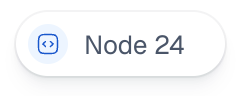
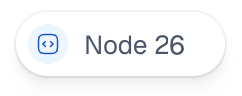
chore: run on node.js 26.13.0

Changed region(s): [[0.6942, 0.3438, 0.781, 0.5938]]

diff --git a/site/lib/llmsKnowledge.ts b/site/lib/llmsKnowledge.ts
@@ -238,7 +238,7 @@ export const KNOWLEDGE_CHUNKS: readonly KnowledgeChunk[] = [
       "Permissions: Pull requests read/write, Contents read, Metadata read. Contents write is needed only for triage pushes. Conversation comments and labels accept Issues or Pull requests grants at the endpoint's required level. Checks read/write, commit-status read/write, Actions logs, labels, and reactions degrade independently when unavailable.",
       "Commit statuses read on every install for legacy status events. Write only if FEATURE_COMMIT_STATUS=true.",
       "Install the app on the orgs or repos to review. Creating the App is not enough. If you pick only selected repositories, include the test repo. Then recreate web and worker so they pick up credentials.",
-      "Contributors use Node 24.22.0 LTS and npm >=11.19.1 <12. The supported Node range is ^24.21.0; CI and Docker stay pinned to 24.22.0. Vercel bootstraps npm 11.19.1 outside the workspace for install and build. One root package-lock.json and .npmrc cover the backend and site workspace. npm ci installs everything; npm ci --workspaces=false installs backend build dependencies; npm ci --omit=dev --workspaces=false installs backend production dependencies; npm ci --workspace=pr-agent-landing --include-workspace-root=false installs the site. The seven-day release-age policy has no exclusions. Dependency lifecycle scripts stay disabled. npm run dev uses native Node TypeScript and watches imported source; restart after environment or configuration changes. Production runs compiled JavaScript.",
+      "Contributors use Node 26.13.0 LTS and npm >=11.19.1 <12. The supported Node range is ^26.13.0; CI and Docker stay pinned to 26.13.0. Vercel bootstraps npm 11.19.1 outside the workspace for install and build. One root package-lock.json and .npmrc cover the backend and site workspace. npm ci installs everything; npm ci --workspaces=false installs backend build dependencies; npm ci --omit=dev --workspaces=false installs backend production dependencies; npm ci --workspace=pr-agent-landing --include-workspace-root=false installs the site. The seven-day release-age policy has no exclusions. Dependency lifecycle scripts stay disabled. npm run dev uses native Node TypeScript and watches imported source; restart after environment or configuration changes. Production runs compiled JavaScript.",
       "GitHub needs HTTPS except when the webhook target is a loopback address. Production Compose publishes HTTP 7224 only. Put TLS in front, or use the maintainer-local Compose file, which starts a Cloudflare quick tunnel to /webhooks.",
       "A VPS plus Dokploy or Coolify is a TLS front for pr-agent-web. Route only the web service on internal port 7224. Leave Postgres unpublished. Keep DATABASE_URL on hostname postgres. Do not add a panel-specific compose file or expose the worker. Hetzner is the usual cheap 4 GB VPS. Hostinger and DigitalOcean also work. See README Recommended hosts.",
       "Check web with curl http://127.0.0.1:7224/health (ok) and /ready (ready when Postgres is up).",

diff --git a/docs/operations.md b/docs/operations.md
@@ -100,7 +100,7 @@ and return `503`.
 ### Docker and Docker Compose
 
 - **Stack:** [docker-compose.yml](../docker-compose.yml) runs **`postgres`**, **`pr-agent-web`** (`ROLE=web`), and **`pr-agent-worker`** (`ROLE=worker`). `docker compose up` is required for end-to-end reviews and asks; web-only is not sufficient.
-- **Image:** multi-stage `Dockerfile` (Node 24 LTS, pinned to 24.22.0); runtime listens on **`PORT`** (pinned to **7224** in Compose and [`.env.example`](../.env.example)). The runtime stage installs Debian `git` from `node:24.22.0-bookworm-slim` (2.39.x). Pinned workspace search runs on fff in a child process the worker forks on first use, with `git grep -nF -I -z` for files fff does not index and as the fallback. Triage search uses `git grep` alone. Both apply `maxResults` plus `LOCAL_WORKSPACE_SEARCH_MAX_TOTAL_BYTES` to the result. `git grep` does not pass `--max-count` (Git 2.40+). The image ships the `@ff-labs/fff-bin-*` platform package for its architecture; a host that cannot load it logs `workspace_search_fff_fallback` and searches with `git grep` ([ADR 0048](adr/0048-fff-workspace-search.md)).
+- **Image:** multi-stage `Dockerfile` (Node 26.13.0 LTS); runtime listens on **`PORT`** (pinned to **7224** in Compose and [`.env.example`](../.env.example)). The runtime stage installs Debian `git` from `node:26.13.0-bookworm-slim` (2.39.x). That image supplies npm 11.20.0. Pinned workspace search runs on fff in a child process the worker forks on first use, with `git grep -nF -I -z` for files fff does not index and as the fallback. Triage search uses `git grep` alone. Both apply `maxResults` plus `LOCAL_WORKSPACE_SEARCH_MAX_TOTAL_BYTES` to the result. `git grep` does not pass `--max-count` (Git 2.40+). The image ships the `@ff-labs/fff-bin-*` platform package for its architecture; a host that cannot load it logs `workspace_search_fff_fallback` and searches with `git grep` ([ADR 0048](adr/0048-fff-workspace-search.md)).
 - **Health (web):** `GET /health` returns `200` and plain `ok`. `GET /ready` runs a Postgres `SELECT 1` and returns `503` when the database is unreachable. Shipped Compose healthchecks web with hardcoded `http://127.0.0.1:7224/health`, not `/ready`. `depends_on` is start-only. Postgres dying later does not fail the web service.
 - **Health (worker):** the worker listens on its own `PORT` for the same paths. That port is not published. `curl http://127.0.0.1:7224/ready` from the host hits web `/ready` (Postgres ping only). Worker `/ready` requires the eight registered consumers (`WORKER_CONSUMER_QUEUES`, including retention) plus Postgres/pg-boss. Compose checks that in-container. The image `HEALTHCHECK` hits `/health`, so a PaaS that honors only the Dockerfile can mark a worker healthy before consumers exist. Continuous queue/DLQ diagnostics emit every 60s; see [agent-work-ops.md](agent-work-ops.md).
 - **Webhook URL:** set GitHub to `https://<host>/webhooks`. The process binds HTTP on `7224`. Production Compose publishes that HTTP port only. Maintainer-local Caddy and a Cloudflare quick tunnel live in [docker-compose.dev.yml](../docker-compose.dev.yml). A public `http://<host>:7224/webhooks` URL is rejected except for loopback.
@@ -191,12 +191,12 @@ seven-day purge. Queries and maintenance checks:
 
 - **Primary start** is `docker compose -f docker-compose.dev.yml up -d --build`. That file starts Postgres, Caddy, web, worker, and a Cloudflare quick tunnel to the web process. `dev/mock.env` has no PEM. The boot script generates one at process start. Print the public webhook URL with `node dev/print-public-webhook-url.cjs` and paste it on the GitHub App. The trycloudflare hostname changes on restart. Probe the laptop side with `curl -k https://web.localhost/health` and `curl -k https://worker.localhost/ready`. If the names do not resolve, add them to `/etc/hosts` or pass `curl --resolve`. Do not mix that file with `docker compose up`.
 - **`npm run dev`** runs `node --watch --env-file-if-exists=.env src/index.ts`. Node strips erasable TypeScript without a loader. Imported-source changes restart the process. Restart manually after `.env`, configuration, or other unwatched input changes.
-- Keep `.env` present for watching, even if settings come from exported variables (`touch .env` creates an empty file). On Node 24.22.0, watching with an absent optional env file can crash during shutdown after a source restart. Non-watching source and compiled production runs are unaffected.
+- On Node 26.13.0, `node --watch --env-file-if-exists=.env` prints `.env not found. Continuing without it.` and exits 0 after a source restart and shutdown when `.env` is absent.
 - **`GITHUB_APP_PRIVATE_KEY` must be a valid PEM key**. For local-only boot: `openssl genrsa 2048 > key.pem` and set the escaped PEM in `.env`. The example blob in `.env.example` fails `crypto.createPrivateKey()`.
 - The Compose `cloudflared` service is the public webhook path. Do not start a host smee or `cloudflared` process unless that service cannot reach Cloudflare. Do not point any fallback at the worker.
-- Host, CI, and images use Node 24.22.0 LTS. Root `devEngines` accepts Node `^24.21.0` so Vercel's managed Node 24 runtime can install the site. npm `>=11.19.1 <12` remains required, including commands launched from `site/`. Older npm releases do not provide the required release-age settings. See [ADR 0055](adr/0055-npm-native-node-toolchain.md) for the older runtime's HMAC-stream limitation and security-release review.
+- Host, CI, and images use Node 26.13.0 LTS. Root `devEngines` accepts Node `^26.13.0`. npm `>=11.19.1 <12` remains required, including commands launched from `site/`. Older npm releases do not provide the required release-age settings. See [ADR 0055](adr/0055-npm-native-node-toolchain.md) for the older `^24.21.0` floor and the rule against re-digesting a finalized HMAC.
 - Run `npm ci` for a clean contributor installation against the root lockfile. It replaces the installed tree; no global package-manager installation is needed.
-- **Vercel** selects Node 24 from the manifest's `engines` and uses explicit commands in [`site/vercel.json`](../site/vercel.json). The hosted npm can fall below the required version. Installation first runs `npm install --global --prefix /tmp/pr-agent-npm --ignore-scripts --engine-strict --min-release-age=7 npm@11.19.1`. This isolates the toolchain without changing the hosted npm. From the configured `site` directory, installation then runs `cd .. && /tmp/pr-agent-npm/bin/npm ci --workspace=pr-agent-landing --include-workspace-root=false`; build runs `cd .. && /tmp/pr-agent-npm/bin/npm run --workspace=pr-agent-landing build`. Both phases retain `devEngines` checks. Check dashboard Node and command overrides separately. Root install policy applies. The site serves `/llms.txt`, `GET /llms?query=`, and `GET /llms/json?query=` from [`site/lib/llmsKnowledge.ts`](../site/lib/llmsKnowledge.ts).
+- **Vercel** uses explicit commands in [`site/vercel.json`](../site/vercel.json). The Functions page lists 22.x and 24.x, so the next site deployment can fail. The hosted npm can fall below the required version. Installation first runs `npm install --global --prefix /tmp/pr-agent-npm --ignore-scripts --engine-strict --min-release-age=7 npm@11.19.1`. This isolates the toolchain without changing the hosted npm. From the configured `site` directory, installation then runs `cd .. && /tmp/pr-agent-npm/bin/npm ci --workspace=pr-agent-landing --include-workspace-root=false`; build runs `cd .. && /tmp/pr-agent-npm/bin/npm run --workspace=pr-agent-landing build`. Both phases retain `devEngines` checks. Check dashboard Node and command overrides separately. Root install policy applies. The site serves `/llms.txt`, `GET /llms?query=`, and `GET /llms/json?query=` from [`site/lib/llmsKnowledge.ts`](../site/lib/llmsKnowledge.ts).
 - **Docker image** installs build dependencies with `npm ci --workspaces=false` and production dependencies separately with `npm ci --omit=dev --workspaces=false`. Lifecycle scripts stay disabled, including for native packages. Runtime keeps the official Debian slim base, Git, certificates, the non-root user, and direct `node dist/index.js`; no package manager or compiler runs in the production process. [`.dockerignore`](../.dockerignore) keeps only the site's manifest for the shared lockfile.
 
 ### TLS in front of Compose

diff --git a/docs/adr/0055-npm-native-node-toolchain.md b/docs/adr/0055-npm-native-node-toolchain.md
@@ -2,18 +2,15 @@
 
 ## Decision
 
-Pin contributor tooling, CI, and Docker to Node 24.22.0 LTS with npm
+Pin contributor tooling, CI, and Docker to Node 26.13.0 LTS with npm
 `>=11.19.1 <12`. The official
-`node:24.22.0-bookworm-slim` image supplies npm 11.19.1. Root `engines`
+`node:26.13.0-bookworm-slim` image supplies npm 11.20.0. Root `engines`
 and `devEngines` reject unsupported versions. The supported Node range is
-`^24.21.0`, not an unbounded minimum. This admits Vercel's managed Node 24.21.0
-runtime without changing the preferred version or npm requirement.
+`^26.13.0`, not an unbounded minimum. Node 26.13.0 includes 26.12.1.
 
-Node 24.21.0 lacks the 24.22.0 fix for calling `digest()` after finalizing an HMAC
-stream. Webhook verification and the inspected authentication dependencies use
-one-shot HMAC updates and digests. Do not re-digest finalized HMAC streams.
-Recheck the supported range when Node's announced October 21, 2026 security
-release becomes available.
+The old `^24.21.0` floor lacked the fix for calling `digest()` after finalizing
+an HMAC stream, so do not re-digest a finalized HMAC. Webhook verification and
+the inspected authentication dependencies use one-shot HMAC updates and digests.
 
 One root `package-lock.json` owns the backend and `site` workspace.
 Shared overrides stay at the root. `.npmrc` owns `min-release-age=7`,
@@ -46,10 +43,9 @@ imports. Compilation rewrites those references to `.js`; production still
 runs `node dist/index.js`. The fff client chooses its real `.ts` source host
 or emitted `.js` host and forks with no inherited loader or environment.
 Environment and configuration edits can require a manual development restart.
-Keep a `.env` file present, even when empty and settings come from exported
-variables. Node 24.22.0's watcher can crash on shutdown after a source restart
-when `--env-file-if-exists` names an absent file. This reproduces without the
-application; it does not affect compiled production or non-watching source runs.
+On Node 26.13.0, `node --watch --env-file-if-exists=.env` prints `.env not
+found. Continuing without it.` and exits 0 after a source restart and shutdown
+when the file is absent.
 
 `npm run` forwards script arguments after `--`, for example
 `npm run dump-prompt -- all`. `test` explicitly checks Effect versions before
@@ -65,13 +61,14 @@ No package manager or compiler runs in the production process. Removing tooling
 from an inherited layer is not an image-size or application-RSS optimization.
 
 CI uses setup-node and root-lockfile caching. The trusted guard workflow installs
-and executes only base-branch tooling; PR-head files remain inspection input.
-Vercel selects Node 24 from `package.json` engines, installs the site from the root
-lock, and builds the workspace. `site/vercel.json` sets commands; its schema does
-not accept `nodeVersion`. The hosted Node image can bundle npm below the required
-minimum. Bootstrap npm 11.19.1 into `/tmp/pr-agent-npm` with release-age, engine,
-and lifecycle-script protections, then use that binary for both install and
-build. This leaves the hosted npm untouched and preserves repository
+and executes only base-branch tooling. PR-head files remain inspection input.
+The Vercel Functions page lists 22.x and 24.x, so the next site deployment can
+fail. Vercel installs the site from the root lock and builds the workspace.
+`site/vercel.json` sets commands. Its schema does not accept `nodeVersion`. The
+hosted Node image can bundle npm below the required minimum. Bootstrap npm 11.19.1
+into `/tmp/pr-agent-npm` with release-age, engine, and lifecycle-script
+protections, then use that binary for both install and build. This leaves the
+hosted npm untouched and preserves repository
 `devEngines`. Dashboard overrides need a separate operator check.
 
 Every `.jsonc` file is a control-plane path, at any depth and case. The canonical

diff --git a/README.md b/README.md
@@ -8,7 +8,7 @@
   <br>
   <a href="LICENSE"><img src="assets/badges/license.png" alt="MIT license" height="48"></a>
   <a href="#documentation"><img src="assets/badges/docs.png" alt="Documentation" height="48"></a>
-  <a href="#installation"><img src="assets/badges/node.png" alt="Node 24 LTS" height="48"></a>
+  <a href="#installation"><img src="assets/badges/node.png" alt="Node 26.13.0 LTS" height="48"></a>
 </p>
 
 </div>
@@ -406,7 +406,7 @@ npm run check:code
 
 Vitest does not load `.env` for you. Export `DATABASE_URL` in the shell for integration runs. Inventory-only suite that may skip DB cases: `npm run test:integration:inventory`.
 
-For host development, install Node 24.22.0 LTS with npm 11.19.1 or a newer npm 11 release, then run `npm ci`. The supported Node range is `^24.21.0`. `npm run dev` watches imported TypeScript and loads `.env` when present. Restart after environment or configuration changes. Give web and worker distinct `PORT` values.
+For host development, install Node 26.13.0 LTS with npm 11.19.1 or a newer npm 11 release, then run `npm ci`. The supported Node range is `^26.13.0`. `npm run dev` watches imported TypeScript and loads `.env` when present. Restart after environment or configuration changes. Give web and worker distinct `PORT` values.
 
 One root `package-lock.json` covers the backend and landing workspace. Use `npm ci --workspaces=false` for backend build dependencies, `npm ci --omit=dev --workspaces=false` for backend production, or `npm ci --workspace=pr-agent-landing --include-workspace-root=false` for the site. `.npmrc` owns the seven-day release-age policy, disabled dependency lifecycle scripts, legacy peer resolution, and strict engines. The only release-age exclusion is `@tanstack/redact`.
 
